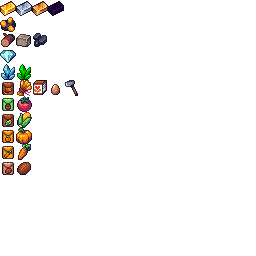
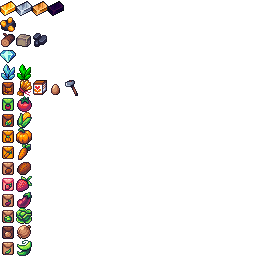
Add beans, cabbage, eggplant, onions and strawberries

Changed region(s): [[0.0, 0.6875, 0.125, 1.0]]

diff --git a/src/game/Game.cpp b/src/game/Game.cpp
@@ -227,6 +227,11 @@ namespace Game3 {
 		add(std::make_shared<Item>("base:item/pumpkin",         "Pumpkin",             8, 64));
 		add(std::make_shared<Item>("base:item/carrot",          "Carrot",              8, 64));
 		add(std::make_shared<Item>("base:item/potato",          "Potato",              8, 64));
+		add(std::make_shared<Item>("base:item/strawberry",      "Strawberry",          8, 64));
+		add(std::make_shared<Item>("base:item/eggplant",        "Eggplant",            8, 64));
+		add(std::make_shared<Item>("base:item/cabbage",         "Cabbage",             8, 64));
+		add(std::make_shared<Item>("base:item/onion",           "Onion",               8, 64));
+		add(std::make_shared<Item>("base:item/bean",            "Bean",                8, 64));
 		add(std::make_shared<Item>("base:item/red_dye",         "Red Dye",            12, 64));
 		add(std::make_shared<Item>("base:item/orange_dye",      "Orange Dye",         12, 64));
 		add(std::make_shared<Item>("base:item/yellow_dye",      "Yellow Dye",         12, 64));
@@ -258,13 +263,18 @@ namespace Game3 {
 
 		add(std::make_shared<Mead>("base:item/mead", "Mead", 10, 16));
 
-		add(std::make_shared<Seed>("base:item/cotton_seeds",  "Cotton Seeds",  "base:tile/cotton_0",  4));
-		add(std::make_shared<Seed>("base:item/wheat_seeds",   "Wheat Seeds",   "base:tile/wheat_0",   4));
-		add(std::make_shared<Seed>("base:item/tomato_seeds",  "Tomato Seeds",  "base:tile/tomato_0",  4));
-		add(std::make_shared<Seed>("base:item/corn_seeds",    "Corn Seeds",    "base:tile/corn_0",    4));
-		add(std::make_shared<Seed>("base:item/pumpkin_seeds", "Pumpkin Seeds", "base:tile/pumpkin_0", 4));
-		add(std::make_shared<Seed>("base:item/carrot_seeds",  "Carrot Seeds",  "base:tile/carrot_0",  4));
-		add(std::make_shared<Seed>("base:item/potato_seeds",  "Potato Seeds",  "base:tile/potato_0",  4));
+		add(std::make_shared<Seed>("base:item/cotton_seeds",     "Cotton Seeds",      "base:tile/cotton_0",     4));
+		add(std::make_shared<Seed>("base:item/wheat_seeds",      "Wheat Seeds",       "base:tile/wheat_0",      4));
+		add(std::make_shared<Seed>("base:item/tomato_seeds",     "Tomato Seeds",      "base:tile/tomato_0",     4));
+		add(std::make_shared<Seed>("base:item/corn_seeds",       "Corn Seeds",        "base:tile/corn_0",       4));
+		add(std::make_shared<Seed>("base:item/pumpkin_seeds",    "Pumpkin Seeds",     "base:tile/pumpkin_0",    4));
+		add(std::make_shared<Seed>("base:item/carrot_seeds",     "Carrot Seeds",      "base:tile/carrot_0",     4));
+		add(std::make_shared<Seed>("base:item/potato_seeds",     "Potato Seeds",      "base:tile/potato_0",     4));
+		add(std::make_shared<Seed>("base:item/strawberry_seeds", "Strawberry Seeds",  "base:tile/strawberry_0", 4));
+		add(std::make_shared<Seed>("base:item/eggplant_seeds",   "Eggplant Seeds",    "base:tile/eggplant_0",   4));
+		add(std::make_shared<Seed>("base:item/cabbage_seeds",    "Cabbage Seeds",     "base:tile/cabbage_0",    4));
+		add(std::make_shared<Seed>("base:item/onion_seeds",      "Onion Seeds",       "base:tile/onion_0",      4));
+		add(std::make_shared<Seed>("base:item/bean_seeds",       "Bean Seeds",        "base:tile/bean_0",       4));
 
 		add(std::make_shared<Tool>("base:item/iron_axe",       "Iron Axe",       150,  3.f, 128, "base:attribute/axe"));
 		add(std::make_shared<Tool>("base:item/iron_shovel",    "Iron Shovel",    120,  3.f,  64, "base:attribute/shovel"));
